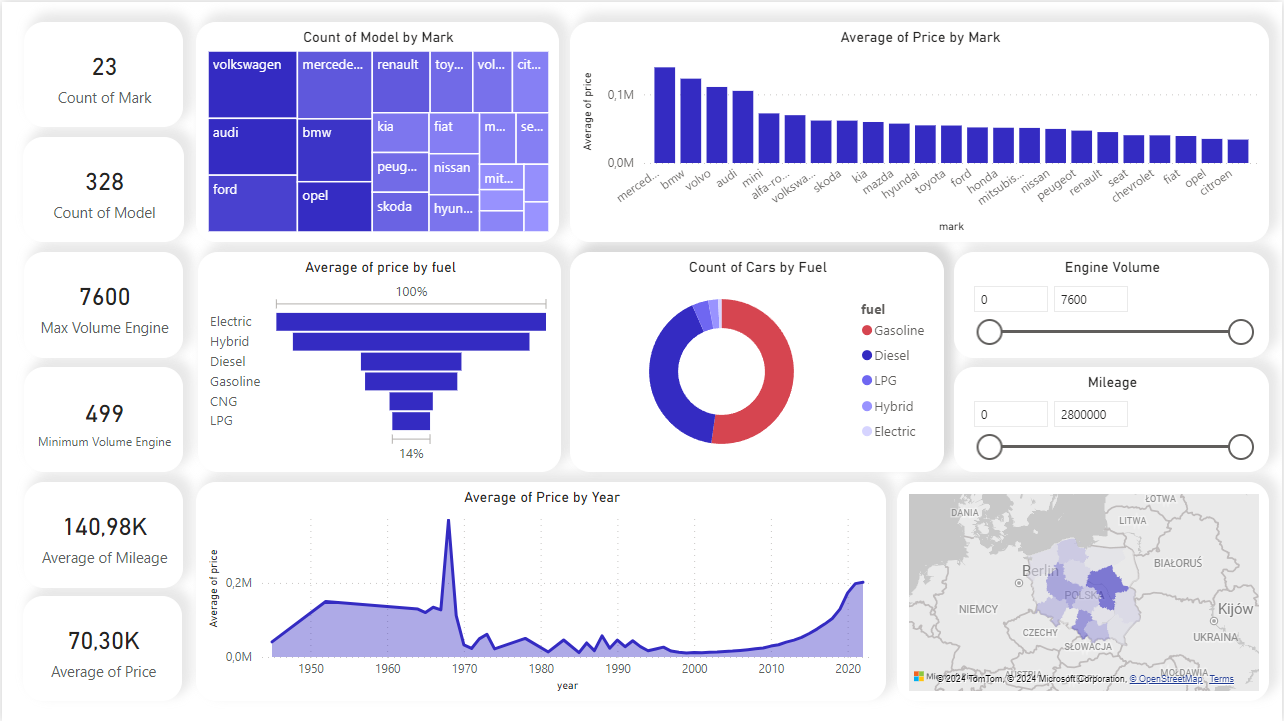
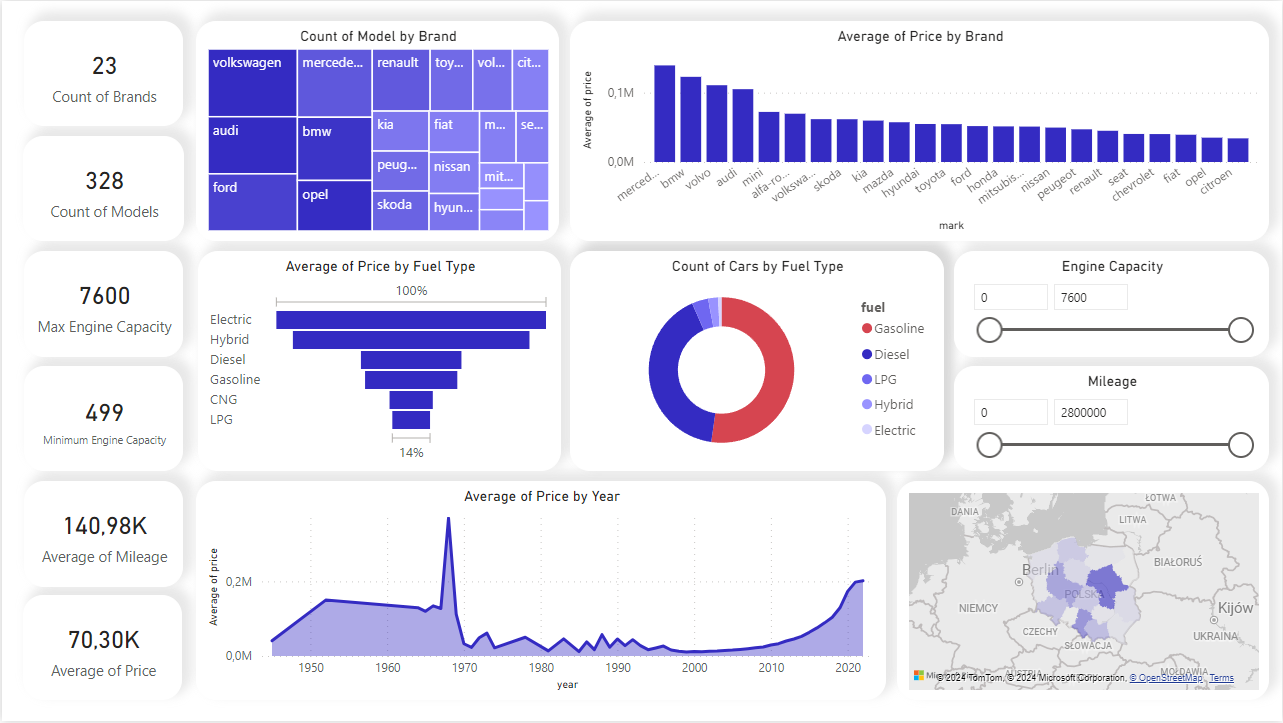
Updates README and dashboard

diff --git a/README.md b/README.md
@@ -1,6 +1,6 @@
 # Power BI Car Price Dashboard
 
-![Desktop_Screenshot](https://github.com/FilipK206/car_prices_dashboard/assets/109867923/9734d2c8-897e-4f22-9114-4353d45fda1f)
+![Desktop_Screenshot](https://github.com/FilipK206/car_prices_dashboard/assets/109867923/3f224e51-45c3-4064-b43b-8d10321190b3)
 
 
 ## Overview
@@ -19,13 +19,13 @@ To view the dashboard, you'll need:
 - Power BI Desktop for the desktop version.
 - Any QR code scanner app for the mobile version.
 
-![Mobile_Screenshot](https://github.com/FilipK206/car_prices_dashboard/assets/109867923/e2857fab-03f7-4cc9-afe5-61d038e2f919)
+![Mobile_Screenshot](https://github.com/FilipK206/car_prices_dashboard/assets/109867923/f327fa38-b0d1-44b2-92cd-34b0932e9b2e)
 
 
 ## Installation
 For the desktop version:
-1. Download the Power BI file from the provided link.
-2. Open the file in Power BI Desktop.
+1. Download the Power BI Desktop.
+2. Open the file `Car_Prices_Dashboard.pbix` in Power BI Desktop.
 
 ## Usage
 1. For the desktop version, open the Power BI file in Power BI Desktop.
@@ -36,8 +36,10 @@ For the desktop version:
 ## Visuals
 The dashboard includes the following interactive visuals:
 - **Average of Price by Year**: Shows the average price of cars over the years.
-- **Count of Cars by Fuel**: Displays the distribution of cars by fuel type.
-- **Count of Model by Make**: Illustrates the distribution of car models by make.
-- **Average of Price by Make**: Provides insights into the average price of cars by make.
+- **Count of Cars by Fuel Type**: Displays the distribution of cars by fuel type.
+- **Count of Models by Brand**: Illustrates the distribution of car models by brand.
+- **Average of Price by Brand**: Provides insights into the average price of cars by brand.
 - **Map with Number of Car Offers**: Shows the geographical distribution of car offers.
 
+## Data
+Source: [data](https://www.kaggle.com/datasets/aleksandrglotov/car-prices-poland "Car Prices - Kaggle Data")
